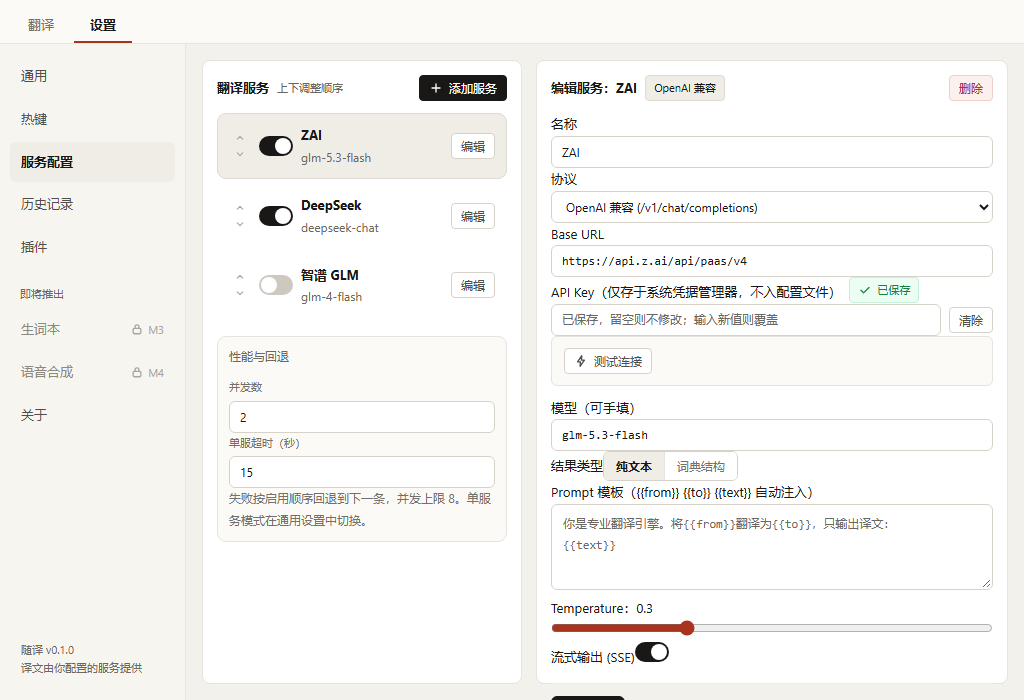
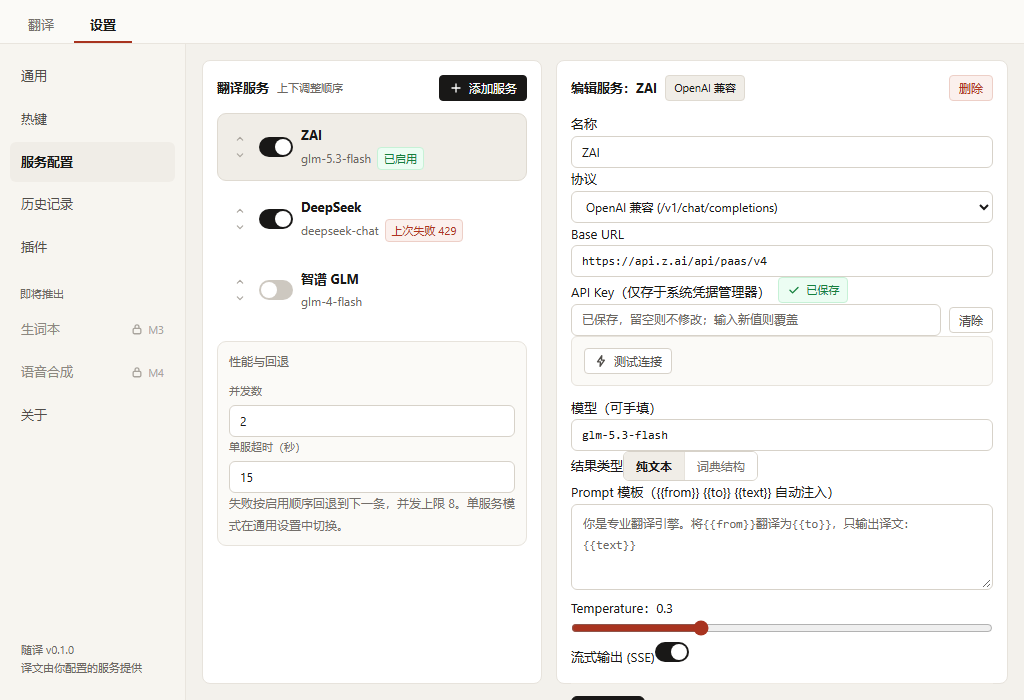
feat(ui): 服务行给出启用与上次失败状态，去掉多余的按钮
设置页的服务行补上设计稿要求的状态标记：启用中的显示「已启用」，
翻译失败过的显示「上次失败 429」。为此加了一个进程内的小 store，
翻译页每跑完一路就把结果写进去，设置页跟着刷新，重启即清空。

顺手去掉两处多余的控件：服务行原来每行挂一个「编辑」按钮，但点击
整行选中本来就是更自然的做法，去掉按钮后模型名的宽度也不再被挤到
截断；翻译页的「弹窗预览」是 M1 时期留下的调试入口，它的兜底文本
是一句写死的英文例句，真正的入口 Alt+D 早就有了，这里删掉。

API Key 的标签同步收回设计稿的措辞，窄窗口下不再折行。

diff --git a/src/pages/Settings.tsx b/src/pages/Settings.tsx
@@ -1,5 +1,5 @@
 // S0.6 设置页：服务配置（对应设计稿④）
-import { useCallback, useEffect, useState } from "react";
+import { useCallback, useEffect, useState, useSyncExternalStore } from "react";
 import "./Settings.css";
 import {
   ankiStatus,
@@ -25,6 +25,7 @@ import {
   type HotkeyStatus,
 } from "../api";
 import { Icon } from "../components/Icon";
+import { getVersion, lastOf, statusCodeOf, subscribe } from "../lastResult";
 import {
   DEFAULT_PROMPT,
   EMPTY_SERVICE,
@@ -183,6 +184,9 @@ export default function SettingsPage() {
   useEffect(() => {
     if (page === "hotkeys") void loadHotkeys();
   }, [page, loadHotkeys]);
+
+  // 翻译页会把每个服务最近一次结果写进 lastResult，这里跟着刷新
+  useSyncExternalStore(subscribe, getVersion);
 
   const loadPlugins = useCallback(async () => {
     try {
@@ -725,7 +729,15 @@ export default function SettingsPage() {
           </div>
 
           {services.map((s) => (
-            <div key={s.id} className={`svc${draft?.id === s.id ? " on" : ""}`}>
+            // 整行可点即选中编辑，不必每行再挂一个「编辑」按钮
+            <div
+              key={s.id}
+              className={`svc${draft?.id === s.id ? " on" : ""}`}
+              onClick={() => {
+                setDraft({ ...s });
+                setSelectedId(s.id);
+              }}
+            >
               <span className="arrows">
                 {!s.pluginId && (
                   <>
@@ -737,21 +749,21 @@ export default function SettingsPage() {
               <Toggle on={s.enabled} onClick={() => void toggleEnabled(s)} />
               <span className="svc-name">
                 <b>{s.name || "未命名服务"}</b>
-                  <span title={serviceMeta(s)}>{serviceMeta(s)}</span>
+                  <span className="meta">
+                    <span className="model" title={serviceMeta(s)}>{serviceMeta(s)}</span>
+                    {(() => {
+                      const last = lastOf(s.id);
+                      if (last && !last.ok) {
+                        const code = statusCodeOf(last.error);
+                        return (
+                          <span className="chip err mini">上次失败{code ? ` ${code}` : ""}</span>
+                        );
+                      }
+                      return s.enabled ? <span className="chip ok mini">已启用</span> : null;
+                    })()}
+                  </span>
               </span>
-              {s.pluginId ? (
-                <span className="chip acc mini">插件</span>
-              ) : (
-                <button
-                  className="btn mini"
-                  onClick={() => {
-                    setDraft({ ...s });
-                    setSelectedId(s.id);
-                  }}
-                >
-                  编辑
-                </button>
-              )}
+              {s.pluginId && <span className="chip acc mini">插件</span>}
             </div>
           ))}
           {services.length === 0 && (
@@ -833,7 +845,7 @@ export default function SettingsPage() {
 
               <div className="f">
                 <label>
-                  API Key（仅存于系统凭据管理器，不入配置文件）
+                  API Key（仅存于系统凭据管理器）
                   <span className="key-state">
                     {hasKey
                       ? <span className="chip ok"><Icon name="check" size="sm" />已保存</span>

diff --git a/src/pages/Translate.tsx b/src/pages/Translate.tsx
@@ -4,6 +4,7 @@ import { emit, listen } from "@tauri-apps/api/event";
 import { invoke } from "@tauri-apps/api/core";
 import { WebviewWindow } from "@tauri-apps/api/webviewWindow";
 import { listServices } from "../api";
+import { recordResult } from "../lastResult";
 import {
   SOURCE_LANGS,
   TARGET_LANGS,
@@ -115,6 +116,7 @@ export default function TranslatePage() {
             "translate_text",
             { serviceId: s.id, text, from, to, kind: "manual" },
           );
+          recordResult(s.id, { ok: true, at: Date.now() });
           setCards((cs) =>
             cs.map((c) =>
               c.id === s.id
@@ -129,8 +131,10 @@ export default function TranslatePage() {
             ),
           );
         } catch (e) {
+          const msg = errText(e);
+          recordResult(s.id, { ok: false, error: msg, at: Date.now() });
           setCards((cs) =>
-            cs.map((c) => (c.id === s.id ? { ...c, status: "error", error: errText(e) } : c)),
+            cs.map((c) => (c.id === s.id ? { ...c, status: "error", error: msg } : c)),
           );
         }
       }),
@@ -156,6 +160,7 @@ export default function TranslatePage() {
           to,
           kind: "manual",
         });
+        recordResult(s.id, { ok: true, at: Date.now() });
         setCards((cs) =>
           cs.map((c) =>
             c.id === serviceId
@@ -164,10 +169,10 @@ export default function TranslatePage() {
           ),
         );
       } catch (e) {
+        const msg = errText(e);
+        recordResult(serviceId, { ok: false, error: msg, at: Date.now() });
         setCards((cs) =>
-          cs.map((c) =>
-            c.id === serviceId ? { ...c, status: "error" as const, error: errText(e) } : c,
-          ),
+          cs.map((c) => (c.id === serviceId ? { ...c, status: "error" as const, error: msg } : c)),
         );
       }
     },
@@ -234,12 +239,6 @@ export default function TranslatePage() {
       <div className="actions">
         <button className="btn primary" disabled={busy || !text.trim()} onClick={() => void doTranslate()}>
           {busy ? "翻译中…" : "翻 译"}
-        </button>
-        <button
-          className="btn"
-          onClick={() => void openTranslatePopup(text.trim() || "The quick brown fox jumps over the lazy dog.")}
-        >
-          弹窗预览
         </button>
         <button className="btn" onClick={() => void invoke("start_screenshot").catch(console.error)}>
           <Icon name="frame" size="sm" />截图识别

diff --git a/design/devharness/app.html b/design/devharness/app.html
@@ -130,6 +130,30 @@
             return;
           }
 
+          // 先跑一轮会失败的翻译，再切到设置页，用来看服务行的「上次失败」标记
+          if (q.get("demo") === "failservices") {
+            setTimeout(function () {
+              var ta = document.querySelector("textarea");
+              if (!ta) return;
+              var setter = Object.getOwnPropertyDescriptor(window.HTMLTextAreaElement.prototype, "value").set;
+              setter.call(ta, "The quick brown fox jumps over the lazy dog.");
+              ta.dispatchEvent(new Event("input", { bubbles: true }));
+              setTimeout(function () {
+                var btn = document.querySelector(".actions .btn.primary");
+                if (btn) btn.click();
+                setTimeout(function () {
+                  var tab = document.querySelectorAll(".tabbar button")[1];
+                  if (tab) tab.click();
+                  setTimeout(function () {
+                    var item = byText(".side-item", "服务配置");
+                    if (item) item.click();
+                  }, 250);
+                }, 1200);
+              }, 600);
+            }, 500);
+            return;
+          }
+
           var want = (location.hash || "").replace("#", "");
           if (!want) return;
           var SIDE = { general: "通用", hotkey: "热键", services: "服务配置", history: "历史记录", plugins: "插件", about: "关于" };

diff --git a/src/lastResult.ts b/src/lastResult.ts
@@ -1,0 +1,47 @@
+/**
+ * 每个服务最近一次翻译的结果，只放在内存里，重启即清空。
+ *
+ * 翻译页跑完一轮后写进来，设置页的服务列表读它显示「上次失败」。
+ * 两个页面在同一个窗口里，所以一个模块级的小 store 就够了，
+ * 不需要再引一个状态库。
+ */
+
+export interface LastResult {
+  ok: boolean;
+  /** 失败时的原始错误文本，成功时为空 */
+  error?: string;
+  at: number;
+}
+
+const results = new Map<string, LastResult>();
+const listeners = new Set<() => void>();
+let version = 0;
+
+export function recordResult(serviceId: string, result: LastResult): void {
+  results.set(serviceId, result);
+  version += 1;
+  listeners.forEach((fn) => fn());
+}
+
+export function subscribe(fn: () => void): () => void {
+  listeners.add(fn);
+  return () => {
+    listeners.delete(fn);
+  };
+}
+
+/** useSyncExternalStore 的快照：只关心"变过没有"，所以直接给版本号 */
+export function getVersion(): number {
+  return version;
+}
+
+export function lastOf(serviceId: string): LastResult | undefined {
+  return results.get(serviceId);
+}
+
+/** 从错误文本里挑出 HTTP 状态码，挑不到就返回空 */
+export function statusCodeOf(error: string | undefined): string {
+  if (!error) return "";
+  const m = error.match(/\b(4\d{2}|5\d{2})\b/);
+  return m ? m[1] : "";
+}

diff --git a/src/pages/Settings.css b/src/pages/Settings.css
@@ -50,7 +50,7 @@
   gap: 14px;
   min-width: 0;
 }
-.list-col { width: 320px; flex: none; display: flex; flex-direction: column; }
+.list-col { width: 340px; flex: none; display: flex; flex-direction: column; }
 .form-col { flex: 1; min-width: 0; }
 
 /* ---------- 服务列表行 ---------- */
@@ -62,7 +62,9 @@
   border: 1.5px solid transparent;
   border-radius: 9px;
   margin-bottom: 4px;
+  cursor: pointer;
 }
+.svc:hover { background: var(--c-surface-2); }
 .svc.on { border-color: var(--c-primary-border); background: var(--c-primary-soft); }
 .arrows { display: flex; flex-direction: column; }
 /* 上下移动：原来只有 9px 文字高，基本点不中，这里给足点击区 */
@@ -84,9 +86,11 @@
 .svc-name { flex: 1; min-width: 0; }
 .svc-name b { font-size: var(--fs-body); display: block; }
 .svc-name span {
-  display: block;
   font-size: var(--fs-sec);
   color: var(--c-caption);
+}
+.svc-name .meta { display: flex; align-items: center; gap: 6px; min-width: 0; }
+.svc-name .model {
   overflow: hidden;
   text-overflow: ellipsis;
   white-space: nowrap;
